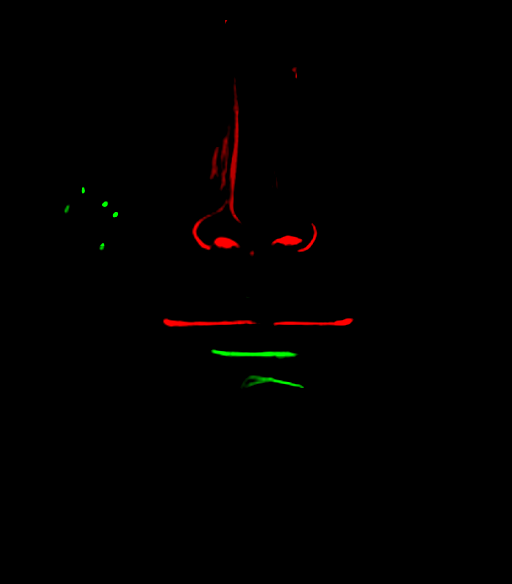
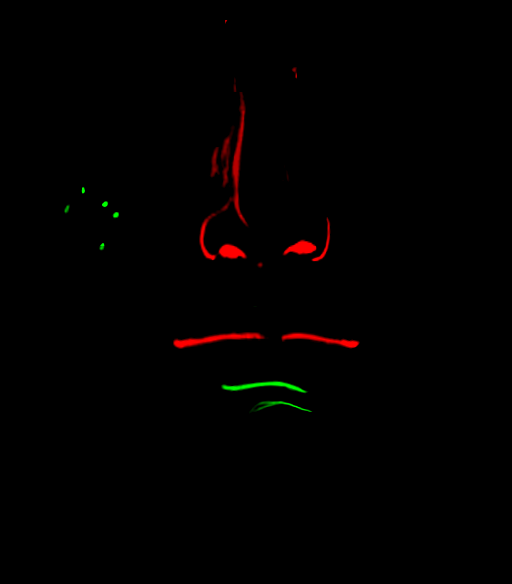
The traveller's nose and mouth lines on his own nose and mouth: the portrait's strokes moved onto landmarks measured on head-v3's mesh, the mouth on the lips' parting in every expression, the near nostril giving way from the side (v1.64)
Fixes #266. Refs #198.

The face ink (2ec50bcf) laid the approved portrait's lines on the head unmoved, but the mesh Tripo made
from it disagrees with the drawing: its nose is longer, wider and ~2.6 mm right of the centre line, its
mouth lower, its lower lip fuller. Measured on the mesh (1 source unit = 264 mm): the mouth line sat
4.0 mm above the lips' parting on average (5.6 at worst), the nostrils 5.4 mm above the nose's lower
outline (on its front), the wings 1.9 / 3.2 mm inside their grooves, the lower lip's stroke 7.7 mm up on
the lip; talking, the line hung 6.8 mm over the open mouth.

scripts/tripo/face-landmarks.mjs measures the shipped mesh in source-front space (front raycasts on a
BVH): the nose's centre line, tip and subnasale, the valley between the lips column by column and its
corners, the grooves round the wings and the outline under them, the lower lip's lower edge and the
hollow under it. bake-face-ink.mjs moves the portrait's own strokes onto them with a thin-plate warp
through 43 pairs (the mouth column by column onto the parting), eyes, brows, cheeks, freckles and jaw
held; the nostrils baked 1.6x darker (on the underside, sampled slantwise, they thinned). After: mouth
0.1 mm off the parting on average (0.5 worst), wings within 0.2 mm, nose base 0.6 mm, the lip's stroke
0.8 mm, the chin's mark 1.7 mm under the hollow; on the morphed face the mouth stays within 0.4 mm on
average (talking 1.4 worst, happy 0.7, sad 0.5, angry 0.7).
[…]

diff --git a/tests/portrait-face-ink.test.js b/tests/portrait-face-ink.test.js
@@ -12,6 +12,8 @@ import { createTravellerV1 } from '../src/characters/traveller-v1.js';
 import { buildCharacter } from '../src/player.js';
 import { PORTRAIT_HEAD as F, PORTRAIT_FACE_INK as FI } from '../src/characters/portrait-head.js';
 import { loadClothInk } from '../src/characters/traveller-cloth-ink.js';
+import { TONE_EXPRESSIONS } from '../src/expression.js';
+import { faceLandmarks } from '../scripts/tripo/face-landmarks.mjs';
 
 const FILE = 'public/characters/traveller-v1/head-v3/face-ink.png';
 const assets = { ...await travellerV1(), head: await tripoHead() };
@@ -55,14 +57,73 @@ test('every line of the portrait lands on the head’s skin in front, none on th
   assert.ok(front > inked.length * 0.97, `${front} of ${inked.length} on the face's front`);
 });
 
-test('the lines are where the face has them: the mouth across the measured lips, the nose base above it', () => {
-  const near = (y, h) => inked.filter(({ p, major }) => major && Math.abs(p[1] - y) < h);
-  const mouth = near(F.mouthY + 0.012, 0.012), xs = mouth.map(({ p }) => p[0]);
-  assert.ok(mouth.length > 150, `${mouth.length} mouth texels`);
-  assert.ok(Math.min(...xs) < -F.mouthWidth * 0.9 && Math.max(...xs) > F.mouthWidth * 0.9, 'the mouth line spans the lips');
-  const nose = near(0.39, 0.02);
-  assert.ok(nose.length > 150 && nose.every(({ p }) => Math.abs(p[0]) < 0.08), 'nostrils and wings under the nose');
+// Issue #266: the portrait's nose and mouth lines on the mesh's own nose and mouth (scripts/tripo/face-landmarks.mjs),
+// not where the portrait has them. Millimetres on the game's head (1 source unit = PORTRAIT_HEAD.scale m).
+const MM = F.scale * 1000, L = faceLandmarks(source.geometry);
+const creaseY = (crease, x) => { const i = crease.findIndex((q) => q[0] >= x); const a = crease[i - 1], b = crease[i]; return a[1] + ((b[1] - a[1]) * (x - a[0])) / (b[0] - a[0]); };
+/** The mouth's ink, column by column (0.005 wide), against the valley between the lips: its middle's offset, mm. */
+function mouthOffsets(points, crease, corners, stomion) {
+  const cols = new Map();
+  for (const [x, y] of points) if (y > stomion - 0.03 && y < stomion + 0.03 && x > corners[0] && x < corners[1]) { const k = Math.round(x / 0.005); (cols.get(k) ?? cols.set(k, []).get(k)).push(y); }
+  return [...cols].filter(([, ys]) => ys.length >= 2).map(([k, ys]) => (ys.reduce((a, b) => a + b) / ys.length - creaseY(crease, k * 0.005)) * MM);
+}
+const red = inked.filter(({ major }) => major).map(({ p }) => p);
+
+test('the mouth line lies on the parting of the lips, corner to corner', () => {
+  const off = mouthOffsets(red, L.mouth.crease, L.mouth.corners, L.mouth.stomion);
+  assert.ok(off.length >= 30, `${off.length} columns of mouth`);
+  const mean = off.reduce((a, b) => a + b) / off.length, worst = Math.max(...off.map(Math.abs));
+  // (the unmoved portrait's line sat 4.0 mm above it on average, 5.6 at worst: on the upper lip)
+  assert.ok(Math.abs(mean) < 0.5 && worst < 1.0, `mean ${mean.toFixed(2)} mm, worst ${worst.toFixed(2)} mm`);
+  const xs = red.filter(([, y]) => Math.abs(y - L.mouth.stomion) < 0.02).map(([x]) => x);
+  assert.ok(Math.min(...xs) < L.mouth.corners[0] + 0.01 && Math.max(...xs) > L.mouth.corners[1] - 0.01, 'the line reaches both corners');
+});
+
+test('the nose base is on the nose: wings on their grooves, nostrils above its lower outline, nothing on its front', () => {
+  const nose = red.filter(([x, y]) => y > L.subnasale[1] - 0.01 && y < L.wings.top + 0.005 && x > L.wings.left - 0.02 && x < L.wings.right + 0.02);
+  const left = Math.min(...nose.map(([x]) => x)), right = Math.max(...nose.map(([x]) => x)), low = Math.min(...nose.map(([, y]) => y));
+  assert.ok(Math.abs(left - L.wings.left) * MM < 1 && Math.abs(right - L.wings.right) * MM < 1, `wings ${((left - L.wings.left) * MM).toFixed(2)}, ${((right - L.wings.right) * MM).toFixed(2)} mm off their grooves`);
+  assert.ok(Math.abs(low - L.wings.foot) * MM < 1, `the nose base ${((low - L.wings.foot) * MM).toFixed(2)} mm off the outline under the wings`);
+  const nostrils = nose.filter(([x, y]) => Math.abs(x - L.ridge) < 0.04 && y < L.tip[1]);
+  const cy = nostrils.reduce((s, p) => s + p[1], 0) / nostrils.length, cx = nostrils.reduce((s, p) => s + p[0], 0) / nostrils.length;
+  // (unmoved, they sat 5.4 mm above the outline, on the nose's front)
+  assert.ok(nostrils.length > 150 && (cy - L.wings.foot) * MM > 1 && (cy - L.wings.foot) * MM < 4, `nostrils ${((cy - L.wings.foot) * MM).toFixed(2)} mm above the outline`);
+  assert.ok(Math.abs(cx - L.ridge) * MM < 1, 'the nostrils either side of the nose’s own centre line');
+  assert.ok(!red.some(([x, y]) => Math.abs(x - L.ridge) < 0.012 && y > L.wings.foot + 0.012 && y < L.tip[1] + 0.02), 'nothing on the tip of the nose');
+});
+
+test('under the mouth: the lower lip’s stroke on its lower edge, the chin’s mark just under the hollow', () => {
+  const green = inked.filter(({ major }) => !major).map(({ p }) => p);
+  const edge = L.lowerLip[2][1], lip = green.filter(([x, y]) => Math.abs(x - L.ridge) < 0.05 && y < L.mouth.stomion - 0.008 && y > L.fold[1]);
+  const chin = green.filter(([x, y]) => Math.abs(x - L.ridge) < 0.06 && y <= L.fold[1] && y > L.fold[1] - 0.03);
+  const mean = (a) => a.reduce((s, p) => s + p[1], 0) / a.length;
+  // (unmoved, the lip's stroke sat 7.7 mm up on the lip itself and the chin's mark 4 mm above the hollow)
+  assert.ok(lip.length > 80 && Math.abs(mean(lip) - edge) * MM < 1, `the lip's stroke ${((mean(lip) - edge) * MM).toFixed(2)} mm off its edge`);
+  assert.ok(chin.length > 30 && (L.fold[1] - mean(chin)) * MM > 0.5 && (L.fold[1] - mean(chin)) * MM < 3.5, `the chin's mark ${((L.fold[1] - mean(chin)) * MM).toFixed(2)} mm under the hollow`);
   assert.ok(inked.every(({ p }) => p[1] > 0.17), 'nothing baked under the jaw: the geometry draws it');
+});
+
+test('in every expression the mouth line stays on the lips: talking, happy, sad, angry', () => {
+  // the face's shape keys (portrait-head.js) moved over the source mesh, the ink carried on the skin it was laid on
+  const { head, humanoid: h } = createTravellerV1(buildCharacter(), assets);
+  const keys = head.geometry.morphAttributes.position;
+  const atRest = red.filter(([x, y]) => Math.abs(y - L.mouth.stomion) < 0.03).map(([x, y]) => L.surface(x, y)).filter(Boolean);
+  for (const [name, e] of [['talking', { open: 0.45 }], ['happy', TONE_EXPRESSIONS.happy], ['sad', TONE_EXPRESSIONS.sad], ['angry', TONE_EXPRESSIONS.angry]]) {
+    h.setExpression(e);
+    const w = head.morphTargetInfluences, g = source.geometry.clone(), q = g.attributes.position;
+    for (let v = 0; v < q.count; v++) for (let k = 0; k < keys.length; k++) if (w[k]) {
+      q.setXYZ(v, q.getX(v) + (w[k] * keys[k].getX(v)) / F.scale, q.getY(v) + (w[k] * keys[k].getY(v)) / F.scale, q.getZ(v) + (w[k] * keys[k].getZ(v)) / F.scale);
+    }
+    g.computeVertexNormals();
+    assert.ok(w.some((v) => v > 0.1), `${name} moves the face`);
+    const moved = atRest.map(({ face, bary }) => [0, 1].map((c) => face.reduce((s, v, i) => s + bary[i] * (c ? q.getY(v) : q.getX(v)), 0)));
+    const M = faceLandmarks(g), off = mouthOffsets(moved, M.mouth.crease, M.mouth.corners, M.mouth.stomion);
+    const mean = off.reduce((a, b) => a + b) / off.length, worst = Math.max(...off.map(Math.abs));
+    if (process.env.FACE_DIAG) console.log(name, mean.toFixed(2), worst.toFixed(2), off.length);
+    assert.ok(off.length >= 20 && Math.abs(mean) < 0.8 && worst < 1.6, `${name}: mean ${mean.toFixed(2)} mm, worst ${worst.toFixed(2)} mm (${off.length} columns)`);
+    g.dispose();
+  }
+  h.setExpression({});
 });
 
 test('the face shader draws the mask and the jaw into the detail channel; without the mask (native VMs) it is off', () => {
@@ -74,6 +135,14 @@ test('the face shader draws the mask and the jaw into the detail channel; withou
   // the jaw line keeps to the skull, the hatching to the throat behind it (never the chin: it read as stubble)
   assert.match(fs, /phJawZone=[^;]*phSkull/); assert.match(fs, /phThroat=\(1\.0-phSkull\)/);
   assert.ok(!fs.includes('phFeatureInk'), 'the painted nose/lip marks no longer feed the ink');
+  // (#266) lines laid on skin the view sees more squarely than the front does stay pen lines; the near nostril's
+  // outer end gives way once the view is round to its side: the view's direction in the head's own frame, each draw
+  assert.ok(fs.includes('fiStretch') && fs.includes('phNostril') && fs.includes('uniform vec3 uHeadView'));
+  const side = new T.PerspectiveCamera(), at = h.drawnFace.at(h.b.Head, new T.Vector3());
+  side.position.copy(at).add(new T.Vector3(1, 0, 0.2)); side.updateMatrixWorld();
+  head.onBeforeRender(null, null, side, head.geometry, head.material);
+  const view = u.uHeadView.value;
+  assert.ok(Math.abs(view.x) > 0.9 && Math.abs(view.length() - 1) < 1e-6, `the view from the side, in the head's frame: ${view.toArray().map((v) => v.toFixed(2))}`);
   // expressions still drive the morphs over the drawn lines
   h.setExpression({ smile: 1 }); assert.ok(head.morphTargetInfluences[1] > 0);
   h.drawnFace.eyes(1, 0, null); assert.equal(head.morphTargetInfluences[0], 1);
@@ -100,7 +169,8 @@ test('the throat is where the jaw line and the hatching part: behind the chin, i
 });
 
 test('the freckles are a few small dots on the cheek, not the shadow shape’s edge', () => {
-  const cheek = inked.filter(({ p: [x, y] }) => Math.abs(x) > 0.07 && Math.abs(x) < 0.2 && y > 0.38 && y < 0.52);
+  // (outside the nose's wings, which reach 0.072 on the mesh's own nose since #266)
+  const cheek = inked.filter(({ p: [x, y] }) => Math.abs(x) > 0.085 && Math.abs(x) < 0.2 && y > 0.38 && y < 0.52);
   assert.ok(cheek.length >= 8 && cheek.length < 120, `${cheek.length} cheek texels`);
 });
 

diff --git a/src/characters/portrait-head.js b/src/characters/portrait-head.js
@@ -14,12 +14,19 @@ export const PORTRAIT_HEAD = Object.freeze({
 // jaw curve's height at the chin and its rise (y = a + b x²), the rest normal's y at the crease,
 // its width in px; throat: the depth the throat stays behind (z < a − b|x|) and how far down its
 // shadow fades; hatch: the throat strokes' spacing (source units), width in px and how much
-// shows in light; fade: the face's height on screen (px) over which each weight of line comes in.
+// shows in light; fade: the face's height on screen (px) over which each weight of line comes in;
+// steep: where the view sees the skin more squarely than the front projection does (that ratio) the line threshold
+// rises to this, so lines laid on the wings' grooves stay pen lines from the side; nostrils: where the baked nostrils
+// sit (the nose's centre line, each side's offset and height, the patch's half-sizes) and when they give way, as
+// a drawing loses them: the near one once the view is that far round to its side (the sine), both once it is
+// that far off his face (the cosine). On the wings' insides they would otherwise read as a dark ring.
 export const PORTRAIT_FACE_INK = Object.freeze({
  box:[-.25,.05,.25,.62], size:[512,584], faceHeight:.47,
  jaw:[.142,4.0,-.45,1.7], throat:[.2,.3,.09], hatch:[.0085,1.0,.8],
  fade:{major:[22,45], minor:[90,170]},
  weight:{major:1.6, minor:1.35, jaw:1.9, hatch:1.4},
+ steep:[[1.15,2.2],.82],
+ nostrils:{ridge:.01, x:.047, y:.373, size:[.013,.012], near:[.3,.55], front:[.05,.2]},
 });
 const smooth=(a,b,x)=>{const t=T.MathUtils.clamp((x-a)/(b-a),0,1);return t*t*(3-2*t)};
 const patch=(x,y,w,h)=>1-smooth(.55,1,Math.hypot(x/w,y/h));
@@ -71,12 +78,13 @@ export function wearPortraitHeadFace(mesh,hairInk,faceInk=null){
  mat.uniforms.uPortraitHairInk={value:hairInk};mat.uniforms.uPortraitHairAmount={value:1};
  mat.uniforms.uPortraitFaceInk={value:faceInk};mat.uniforms.uPortraitFaceAmount={value:faceInk?1:0};
  mat.uniforms.uHeadSpeech={value:new T.Vector4()};mat.uniforms.uHeadEye={value:new T.Vector4()};mat.uniforms.uPortraitBlink={value:0};
+ mat.uniforms.uHeadView={value:new T.Vector3(0,0,1)};
  mat.uniforms.uShade.value.z=0; // source contours carry this face; no procedural cross-hatching
  mat.vertexShader=mat.vertexShader.replace('out vec2 vTextureUV;','out vec2 vTextureUV;\nin float _portrait_hair; out float vPortraitHair;').replace('vTextureUV = uv;','vTextureUV = uv; vPortraitHair = _portrait_hair;');
  mat.fragmentShader=mat.fragmentShader.replace('void main()',`in float vPortraitHair;
  uniform sampler2D uPortraitHairInk;uniform float uPortraitHairAmount;uniform float uPortraitBlink;
  uniform sampler2D uPortraitFaceInk;uniform float uPortraitFaceAmount;
- uniform vec4 uHeadSpeech;uniform vec4 uHeadEye;
+ uniform vec4 uHeadSpeech;uniform vec4 uHeadEye;uniform vec3 uHeadView;
  void main()`).replace(SRGB,`${SRGB}
  vec3 ph=(vBind-vec3(${F.offset.join(',')}))/${F.scale};
  vec3 phPaint=albedo;
@@ -115,8 +123,16 @@ export function wearPortraitHeadFace(mesh,hairInk,faceInk=null){
  float fiPx=1.0/max(max(fwidth(fiUV.x),fwidth(fiUV.y))*${FI.size[0].toFixed(1)},1e-4);   // render px per texel
  float phFaceH=${FI.faceHeight.toFixed(2)}/max(max(fwidth(ph.x),fwidth(ph.y)),1e-6)/max(uPixelRatio,1e-3);   // the face's height in px (as shown: the portrait chip draws large, then shrinks)
  float fiThr=mix(.5,.75,smoothstep(1.2,5.0,fiPx/max(uPixelRatio,1e-3))),fiAa=.5*max(fwidth(fiTex.r),fwidth(fiTex.g))+.04;
+ // (the mask is laid on from in front: where the view sees the skin more squarely than the front does (the wings' grooves
+ // and the nostrils from three-quarters or the side) its lines come out wider; a higher threshold keeps them pen lines)
+ float fiStretch=max(dot(normalize(vNormal),normalize(-vWorldRel)),0.0)/max(phN.z,.15);
+ fiThr=mix(fiThr,${FI.steep[1].toFixed(2)},smoothstep(${FI.steep[0][0].toFixed(2)},${FI.steep[0][1].toFixed(2)},fiStretch));
  float fiOn=step(0.0,fiUV.x)*step(fiUV.x,1.0)*step(0.0,fiUV.y)*step(fiUV.y,1.0)*smoothstep(.02,.3,phN.z)*phFront*(1.0-phHair)*(1.0-phInside)*uPortraitFaceAmount;
- float phMajor=smoothstep(fiThr-fiAa,fiThr+fiAa,fiTex.r)*fiOn*smoothstep(${FI.fade.major[0].toFixed(1)},${FI.fade.major[1].toFixed(1)},phFaceH);
+ // (the nostrils, seen from more than about 50 degrees off his face, give way: on the wing's inside they would read as a ring)
+ vec2 phNo=vec2(abs(ph.x-${FI.nostrils.ridge.toFixed(3)})-${FI.nostrils.x.toFixed(3)},ph.y-${FI.nostrils.y.toFixed(3)})/vec2(${FI.nostrils.size.map((v)=>v.toFixed(3)).join(',')});
+ float phNearSide=uHeadView.x*sign(ph.x-${FI.nostrils.ridge.toFixed(3)});
+ float phNostril=(1.0-smoothstep(.8,1.0,length(phNo)))*max(smoothstep(${FI.nostrils.near.map((v)=>v.toFixed(2)).join(',')},phNearSide),1.0-smoothstep(${FI.nostrils.front.map((v)=>v.toFixed(2)).join(',')},uHeadView.z));
+ float phMajor=smoothstep(fiThr-fiAa,fiThr+fiAa,fiTex.r)*fiOn*(1.0-phNostril)*smoothstep(${FI.fade.major[0].toFixed(1)},${FI.fade.major[1].toFixed(1)},phFaceH);
  float phMinor=smoothstep(fiThr-fiAa,fiThr+fiAa,fiTex.g)*fiOn*smoothstep(${FI.fade.minor[0].toFixed(1)},${FI.fade.minor[1].toFixed(1)},phFaceH);
  // The jaw: where the rest normal turns under the chin (the crease, at any angle), near the jaw's
  // measured curve, on the skull's side of the step back to the throat (the throat sits well behind
@@ -156,5 +172,9 @@ export function wearPortraitHeadFace(mesh,hairInk,faceInk=null){
  push(){const s=headInkState(this.expression,{blink:this.blink,look:this.look},this.state),w=mesh.morphTargetInfluences;for(let i=0;i<6;i++)w[i]=s.keys[i];w[0]=Math.min(1,Math.max(this.blink,this.expression.squint*.45));const u=mesh.material.uniforms;u.uHeadSpeech.value.set(s.speech[0],s.speech[1],0,0);u.uHeadEye.value.set(...s.eye);u.uPortraitBlink.value=w[0]},
  at(head,out){const sk=mesh.skeleton,i=sk.bones.indexOf(head);if(i<0)return null;matrix.multiplyMatrices(head.matrixWorld,sk.boneInverses[i]).multiply(mesh.bindMatrix).premultiply(mesh.bindMatrixInverse).premultiply(mesh.matrixWorld);return out.copy(centre).applyMatrix4(matrix)},
  facing(out){return out.set(0,0,1).transformDirection(matrix)}};
+ // (where his face looks, for the nostrils' fade: from the head joint each time the head is drawn)
+ const headBone=mesh.skeleton.bones.find((b)=>b.name==='Head'),_c=new T.Vector3(),_e=new T.Vector3(),_i=new T.Matrix4();
+ // (the material drawn, not mat: the passes draw clones of it)
+ mesh.onBeforeRender=(renderer,scene,camera,geometry,material)=>{const u=material?.uniforms?.uHeadView;if(!u||!headBone||!face.at(headBone,_c))return;camera.getWorldPosition(_e).sub(_c);u.value.copy(_e).transformDirection(_i.copy(matrix).invert())};
  face.push();return face;
 }

diff --git a/src/changelog-media.js b/src/changelog-media.js
@@ -739,6 +739,8 @@ const TRAVEL213 = 'headless Chrome (muted, Medium, 1280 × 720) against this bra
 // (v1.61, issue #197: a scratch shooter against this branch's own Vite, ?gestures=0 for before; the game's own captureView)
 const TALK197 = 'headless Chrome (muted, High, 1280 × 720, 10:00, the Desert by Marrow) against this branch’s own Vite (port 5791): a conversation open, each picture the game’s own view of the one speaking from in front; before: ?gestures=0 (the talking idle alone), 6 moments of a line; after: a moment of each of six gestures (a wave, surprise, yelling, sad, thinking, thanks); 12 October; sharp webp -q 72';
 const FACE198 = 'Issue #198: muted headless Chrome (1 × pixel ratio, 900 × 813) against this branch’s own Vite (port 5851), the Character studio’s Face and Close-up views of the traveller in the Desert’s light, paused idle, no wind, no blink, fixed gaze; before: this commit’s parent, after: this commit, same view each; 12 October; sharp webp -q 72';
+// (v1.64, issue #266: a scratch studio shooter against this branch's own Vite (port 5901) and the tree before it (1e94ecb8's face, 2ec50bcf))
+const FACE266 = 'Issue #266: muted headless Chrome (900 × 813; the three-quarter and side views at 3 × pixel ratio) against this branch’s own Vite (port 5901), the Character studio’s Face and Close-up views of the traveller in the Desert’s light, paused idle, no wind, no blink, fixed gaze (talking: open 0.45); before: the face as v1.63 left it (2ec50bcf), after: this commit; the same crop of each; 13 October; sharp webp -q 72';
 // (v1.63, issue #256: the camera QC's own pictures, .claude/skills/camera-qc/run.mjs with its frames kept at 1280 × 720 (a scratch copy) and SHOT_AT)
 const QC256 = 'headless Chrome (muted, Medium, 1280 × 720) against this branch’s own Vite (port 5841) and the tree before it (2e818342, port 5842): the camera QC’s scenario alone, the frame at the same moment of its run (SHOT_AT), the game’s own camera; 12 October; cwebp -q 72';
 // (v1.63, issues #260 #261 #258: a scratch strip shooter, each subject held at set times into its wind-up in the Arena,
@@ -764,6 +766,13 @@ export const CHANGELOG_MEDIA = {
         { where: 'the Rose House’s first room', before: null, after: 60.1 },
       ], source: 'the bridge’s own bench (-views -bench 6, unity-bench.json) on the device; docs/systems/performance.md, “Unity on the Retroid”, with GeckoView at the same views' }],
       see: 'On the Retroid, open Hiraeth (Unity) and walk about the Desert or the City-Shaft.' },
+    { match: 'The nose and mouth lines sit on the traveller’s features again', shots: [
+      { name: 'traveller-face-features-front', title: 'From the front, close', caption: 'Before, the portrait’s lines laid on unmoved: the mouth on his upper lip, about 4 mm above where the lips part, the nostrils on the nose’s front, the lower lip’s stroke across the lip itself; after, each line on the mesh’s own feature, measured on its shape.', from: FACE266, reference: { sheet: 'data/characters/traveller-v1/head-v3/reference/front.png', caption: 'The approved front portrait the lines are taken from.' } },
+      { name: 'traveller-face-features-three', title: 'Three-quarter', caption: 'The mouth line in the parting of the lips; the near nostril gives way behind its wing, the far one shows under the tip.', from: FACE266 },
+      { name: 'traveller-face-features-profile', title: 'From the side', caption: 'Before, the mouth line sat on the upper lip; after, it is in the lips’ parting, with a nostril under the tip and the wing’s curve, as his side view draws them.', from: FACE266, reference: { sheet: 'data/characters/traveller-v1/head-v3/reference/left.png', caption: 'His approved side view.' } },
+      { name: 'traveller-face-features-dialogue', title: 'As in a conversation', caption: 'From in front, a little to the side and below, as his conversation portrait sees him.', from: FACE266 },
+      { name: 'traveller-face-features-talk', title: 'Talking', caption: 'Before, the mouth line hung over his open mouth, a second mouth; after, it is inside it.', from: FACE266 },
+    ], see: 'Open the Character studio’s Close-up view of the traveller and turn him, set a tone or open his mouth: the mouth line stays where his lips part.' },
   ],
   '1.63': [
     { match: 'The Unity preview on the Xbox no longer catches every three seconds', numbers: [

diff --git a/src/changelog.js b/src/changelog.js
@@ -15,6 +15,9 @@ export const CHANGELOG = [
     // the Unity build on Android at Handheld, the lean surfaces and 0.75 of the screen by default (BridgeArgs.Quality,
     // BridgeRenderer.lean, BridgeRunner; docs/systems/performance.md "Unity on the Retroid")
     'On the Retroid and other Android handhelds the Unity preview starts at the Handheld graphics, as the game’s app does, draws its surfaces more simply and runs at up to the screen’s 60 frames a second instead of 30: 37 to 60 in the Desert, at the City-Shaft’s rim, in the Signal Market and in a temple, where it ran at 9 to 30 before. The Graphics setting in its menus is kept for the next start.',
+    // the face's nose and mouth lines moved onto the mesh's own nose and mouth (scripts/tripo/face-landmarks.mjs,
+    // bake-face-ink.mjs, portrait-head.js; docs/systems/characters.md "The face's ink"; issue #266)
+    'The nose and mouth lines sit on the traveller’s features again: the mouth line lies where his lips part, from corner to corner, even as he smiles, frowns or talks, the nostrils and the hooks of the nose’s wings are on his nose’s base instead of floating on its tip, and the short stroke under his lower lip and the mark on his chin sit under the lip. Seen from the side or three-quarters, the nostril on the near side gives way behind the wing as a drawing would show it.',
   ] },
   { v: '1.63', date: '2026-10-12', items: [
     // the Steam Deck's main thread: three's Skeleton.update from the bones' arrays, the frame's matrices from the

diff --git a/docs/systems/characters.md b/docs/systems/characters.md
@@ -1272,8 +1272,34 @@ and the continuous brows stay as v1 had them; no new references were made.
   box mean, at most 6 px across: a shadow shape's edge is as dark but long) are kept at
   full strength; the nose's side line above its wings is drawn at 0.72 of the reference's
   darkness (it read heavier than the drawing's). Tests check every inked texel lands on the
-  head's front skin and none on hair, eyes or brows; tests check every inked texel lands on the
   head's front skin and none on hair, eyes or brows.
+- **On the mesh's own features (v1.64, issue #266).** The mesh Tripo made from the portrait
+  does not match it: its nose is longer, wider and about 2.6 mm right of the centre line, its
+  mouth lower, its lower lip fuller. Laid on unmoved, the mouth line sat on the upper lip
+  (4.0 mm above where the lips part on average, 5.6 at worst), the nostrils on the nose's
+  front (5.4 mm above its lower outline), the wings 2–3 mm inside their grooves and the lower
+  lip's stroke 7.7 mm up on the lip. `scripts/tripo/face-landmarks.mjs` measures the shipped
+  mesh in source-front space (front raycasts on a BVH, 0.26 mm steps): the nose's centre line
+  (where its normal turns), the tip and the corner under it, the valley between the lips column
+  by column and the corners where it fades, the grooves round the wings and the nose's lower
+  outline, the lower lip's lower edge (its normal turned furthest down) and the hollow under it.
+  The bake moves the portrait's own strokes onto them with a thin-plate warp through pairs of
+  points (the mouth line column by column onto the parting, the wings' hooks onto the grooves,
+  the nostrils 3 mm above the outline, the side line by the nose's centre line, the lip's
+  stroke on its edge, the chin's mark 2 mm under the hollow), the eyes, brows, cheeks, freckles
+  and jaw held where they are. The nostrils are baked 1.6 times as dark: on the nose's
+  underside, sampled slantwise, they thinned out. Now the mouth is 0.1 mm off the parting on
+  average (0.5 at worst), the wings within 0.2 mm of their grooves, the lip's stroke within
+  0.8 mm of its edge. In rest space they ride the shape keys: on the morphed face of talking,
+  happy, sad and angry the mouth line stays within 0.4 mm of the parting on average (1.4 at
+  worst, talking).
+- **Seen from the side.** Laid on from in front, a line on skin the view sees more squarely
+  than the front does (the wings' grooves from the side) comes out wider, so the threshold
+  rises with that ratio (`steep`: the view's dot with the normal over the rest normal's z, 1.15
+  to 2.2, up to 0.82). The near nostril's outer end gives way once the view is 17–33° round to
+  its side (`nostrils`), as a drawing hides it behind the wing (it read as a ring round the
+  wing). `uHeadView`, the view's direction in the head's own frame, is set in the head's
+  `onBeforeRender` on the material being drawn (the passes draw clones of it).
 - **Drawn in rest space.** `wearPortraitHeadFace` samples it with the rest position's
   x/y, only where the rest normal faces forward, so it rides the blink, smile and speech
   morphs and never smears onto the underside of the nose or jaw. The lines go to the ink
@@ -1311,4 +1337,5 @@ and the continuous brows stay as v1 had them; no new references were made.
 
 Checked in the studio (front, three-quarter, side, close-up, face, bust, full and far, the
 happy, angry and sad tones and talking) and in a Desert conversation (two-shot and his
-portrait chip) against the reference; `tests/portrait-face-ink.test.js`.
+portrait chip) against the reference; `tests/portrait-face-ink.test.js` (since #266 also each stroke against
+the mesh's landmarks, at rest and in each expression).

diff --git a/changelog.md b/changelog.md
@@ -4,6 +4,7 @@ The same release notes shown in the game (press **N** or open settings).
 
 ## v1.64 — 2026-10-12
 
+- The nose and mouth lines sit on the traveller’s features again: the mouth line lies where his lips part, from corner to corner, even as he smiles, frowns or talks, the nostrils and the hooks of the nose’s wings are on his nose’s base instead of floating on its tip, and the short stroke under his lower lip and the mark on his chin sit under the lip. Seen from the side or three-quarters, the nostril on the near side gives way behind the wing as a drawing would show it.
 - On the Retroid and other Android handhelds the Unity preview starts at the Handheld graphics, as the game’s app does, draws its surfaces more simply and runs at up to the screen’s 60 frames a second instead of 30: 37 to 60 in the Desert, at the City-Shaft’s rim, in the Signal Market and in a temple, where it ran at 9 to 30 before. The Graphics setting in its menus is kept for the next start.
 - The Unity preview opens on the title screen now, as the game does: Continue or New game, your three saves (with the Debug list folded under them) and Settings. In a world, Menu opens the Start menu and View the game menu with its Quests, Map, Items, Worlds and People, moved through with the pad as in the game, and the world waits while they are open. It keeps where you stand in your save, and you start at the foot of your ship’s ramp instead of inside the ship.
 

diff --git a/scripts/tripo/README.md b/scripts/tripo/README.md
@@ -30,7 +30,8 @@ That page preserves the untouched source for comparison. The user accepted the
 mesh and requested cleanup, integration and the reference's hair highlights.
 
 Run `node scripts/tripo/bake-face-ink.mjs` to rebuild the face's pen-line mask
-(`head-v3/face-ink.png`) from the approved front reference.
+(`head-v3/face-ink.png`) from the approved front reference, its strokes moved onto the
+mesh's own nose and mouth (`face-landmarks.mjs`, issue #266).
 Run `node scripts/tripo/prepare-portrait-head.mjs` to rebuild the shipped GLB,
 sampled colours and R8 hair mask in `public/characters/traveller-v1/head-v3/`.
 Positions, triangles and UVs are unchanged; skin normals are smoothed and the
